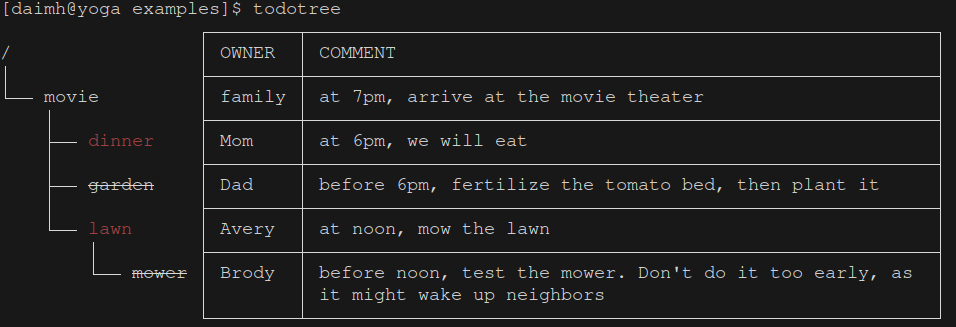
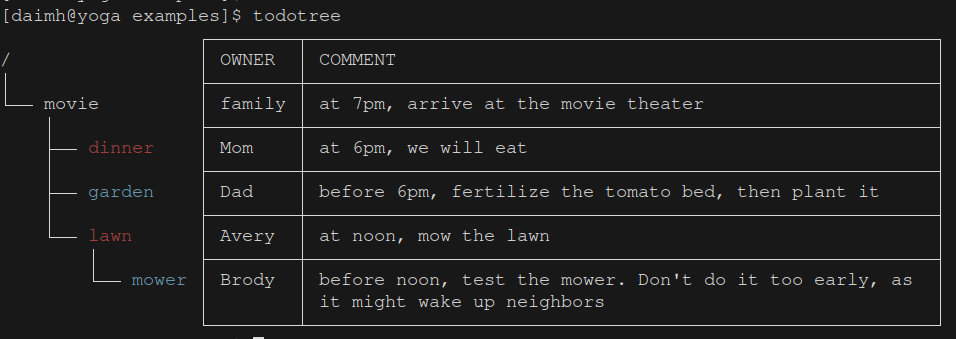
Ref: support "watch -c todotree"

diff --git a/examples/output/todotree.html b/examples/output/todotree.html
@@ -5,11 +5,11 @@
 <p style='font-family: monospace; font-size: 16px; margin: 0px; line-height: 16px'>&nbsp;&nbsp;&nbsp;&nbsp;│&nbsp;&nbsp;&nbsp;&nbsp;&nbsp;&nbsp;&nbsp;&nbsp;&nbsp;&nbsp;&nbsp;&nbsp;&nbsp;├────────┼───────────────────────────────────────────────────┤</p>
 <p style='font-family: monospace; font-size: 16px; margin: 0px; line-height: 16px'>&nbsp;&nbsp;&nbsp;&nbsp;├──&nbsp;<span style='color:red'>dinner</span>&nbsp;&nbsp;&nbsp;&nbsp;│&nbsp;Mom&nbsp;&nbsp;&nbsp;&nbsp;│&nbsp;at 6pm, we will eat&nbsp;&nbsp;&nbsp;&nbsp;&nbsp;&nbsp;&nbsp;&nbsp;&nbsp;&nbsp;&nbsp;&nbsp;&nbsp;&nbsp;&nbsp;&nbsp;&nbsp;&nbsp;&nbsp;&nbsp;&nbsp;&nbsp;&nbsp;&nbsp;&nbsp;&nbsp;&nbsp;&nbsp;&nbsp;&nbsp;&nbsp;│</p>
 <p style='font-family: monospace; font-size: 16px; margin: 0px; line-height: 16px'>&nbsp;&nbsp;&nbsp;&nbsp;│&nbsp;&nbsp;&nbsp;&nbsp;&nbsp;&nbsp;&nbsp;&nbsp;&nbsp;&nbsp;&nbsp;&nbsp;&nbsp;├────────┼───────────────────────────────────────────────────┤</p>
-<p style='font-family: monospace; font-size: 16px; margin: 0px; line-height: 16px'>&nbsp;&nbsp;&nbsp;&nbsp;├──&nbsp;<span style='text-decoration:line-through'>garden</span>&nbsp;&nbsp;&nbsp;&nbsp;│&nbsp;Dad&nbsp;&nbsp;&nbsp;&nbsp;│&nbsp;before 6pm, fertilize the tomato bed, then plant &nbsp;│</p>
+<p style='font-family: monospace; font-size: 16px; margin: 0px; line-height: 16px'>&nbsp;&nbsp;&nbsp;&nbsp;├──&nbsp;<span style='color:blue'>garden</span>&nbsp;&nbsp;&nbsp;&nbsp;│&nbsp;Dad&nbsp;&nbsp;&nbsp;&nbsp;│&nbsp;before 6pm, fertilize the tomato bed, then plant &nbsp;│</p>
 <p style='font-family: monospace; font-size: 16px; margin: 0px; line-height: 16px'>&nbsp;&nbsp;&nbsp;&nbsp;│&nbsp;&nbsp;&nbsp;&nbsp;&nbsp;&nbsp;&nbsp;&nbsp;&nbsp;&nbsp;&nbsp;&nbsp;&nbsp;│&nbsp;&nbsp;&nbsp;&nbsp;&nbsp;&nbsp;&nbsp;&nbsp;│&nbsp;it&nbsp;&nbsp;&nbsp;&nbsp;&nbsp;&nbsp;&nbsp;&nbsp;&nbsp;&nbsp;&nbsp;&nbsp;&nbsp;&nbsp;&nbsp;&nbsp;&nbsp;&nbsp;&nbsp;&nbsp;&nbsp;&nbsp;&nbsp;&nbsp;&nbsp;&nbsp;&nbsp;&nbsp;&nbsp;&nbsp;&nbsp;&nbsp;&nbsp;&nbsp;&nbsp;&nbsp;&nbsp;&nbsp;&nbsp;&nbsp;&nbsp;&nbsp;&nbsp;&nbsp;&nbsp;&nbsp;&nbsp;&nbsp;│</p>
 <p style='font-family: monospace; font-size: 16px; margin: 0px; line-height: 16px'>&nbsp;&nbsp;&nbsp;&nbsp;│&nbsp;&nbsp;&nbsp;&nbsp;&nbsp;&nbsp;&nbsp;&nbsp;&nbsp;&nbsp;&nbsp;&nbsp;&nbsp;├────────┼───────────────────────────────────────────────────┤</p>
 <p style='font-family: monospace; font-size: 16px; margin: 0px; line-height: 16px'>&nbsp;&nbsp;&nbsp;&nbsp;└──&nbsp;<span style='color:red'>lawn</span>&nbsp;&nbsp;&nbsp;&nbsp;&nbsp;&nbsp;│&nbsp;Avery&nbsp;&nbsp;│&nbsp;at noon, mow the lawn&nbsp;&nbsp;&nbsp;&nbsp;&nbsp;&nbsp;&nbsp;&nbsp;&nbsp;&nbsp;&nbsp;&nbsp;&nbsp;&nbsp;&nbsp;&nbsp;&nbsp;&nbsp;&nbsp;&nbsp;&nbsp;&nbsp;&nbsp;&nbsp;&nbsp;&nbsp;&nbsp;&nbsp;&nbsp;│</p>
 <p style='font-family: monospace; font-size: 16px; margin: 0px; line-height: 16px'>&nbsp;&nbsp;&nbsp;&nbsp;&nbsp;&nbsp;&nbsp;&nbsp;│&nbsp;&nbsp;&nbsp;&nbsp;&nbsp;&nbsp;&nbsp;&nbsp;&nbsp;├────────┼───────────────────────────────────────────────────┤</p>
-<p style='font-family: monospace; font-size: 16px; margin: 0px; line-height: 16px'>&nbsp;&nbsp;&nbsp;&nbsp;&nbsp;&nbsp;&nbsp;&nbsp;└──&nbsp;<span style='text-decoration:line-through'>mower</span>&nbsp;│&nbsp;Brody&nbsp;&nbsp;│&nbsp;before noon, test the mower. Don't do it too earl&nbsp;│</p>
+<p style='font-family: monospace; font-size: 16px; margin: 0px; line-height: 16px'>&nbsp;&nbsp;&nbsp;&nbsp;&nbsp;&nbsp;&nbsp;&nbsp;└──&nbsp;<span style='color:blue'>mower</span>&nbsp;│&nbsp;Brody&nbsp;&nbsp;│&nbsp;before noon, test the mower. Don't do it too earl&nbsp;│</p>
 <p style='font-family: monospace; font-size: 16px; margin: 0px; line-height: 16px'>&nbsp;&nbsp;&nbsp;&nbsp;&nbsp;&nbsp;&nbsp;&nbsp;&nbsp;&nbsp;&nbsp;&nbsp;&nbsp;&nbsp;&nbsp;&nbsp;&nbsp;&nbsp;│&nbsp;&nbsp;&nbsp;&nbsp;&nbsp;&nbsp;&nbsp;&nbsp;│&nbsp;y, as it might wake up neighbors&nbsp;&nbsp;&nbsp;&nbsp;&nbsp;&nbsp;&nbsp;&nbsp;&nbsp;&nbsp;&nbsp;&nbsp;&nbsp;&nbsp;&nbsp;&nbsp;&nbsp;&nbsp;│</p>
 <p style='font-family: monospace; font-size: 16px; margin: 0px; line-height: 16px'>&nbsp;&nbsp;&nbsp;&nbsp;&nbsp;&nbsp;&nbsp;&nbsp;&nbsp;&nbsp;&nbsp;&nbsp;&nbsp;&nbsp;&nbsp;&nbsp;&nbsp;&nbsp;└────────┴───────────────────────────────────────────────────┘</p>

diff --git a/examples/output/no-owner.html b/examples/output/no-owner.html
@@ -5,10 +5,10 @@
 <p style='font-family: monospace; font-size: 16px; margin: 0px; line-height: 16px'>&nbsp;&nbsp;&nbsp;&nbsp;│&nbsp;&nbsp;&nbsp;&nbsp;&nbsp;&nbsp;&nbsp;&nbsp;&nbsp;&nbsp;&nbsp;&nbsp;&nbsp;├─────────────────────────────────────────────────────────┤</p>
 <p style='font-family: monospace; font-size: 16px; margin: 0px; line-height: 16px'>&nbsp;&nbsp;&nbsp;&nbsp;├──&nbsp;<span style='color:red'>dinner</span>&nbsp;&nbsp;&nbsp;&nbsp;│&nbsp;at 6pm, we will eat&nbsp;&nbsp;&nbsp;&nbsp;&nbsp;&nbsp;&nbsp;&nbsp;&nbsp;&nbsp;&nbsp;&nbsp;&nbsp;&nbsp;&nbsp;&nbsp;&nbsp;&nbsp;&nbsp;&nbsp;&nbsp;&nbsp;&nbsp;&nbsp;&nbsp;&nbsp;&nbsp;&nbsp;&nbsp;&nbsp;&nbsp;&nbsp;&nbsp;&nbsp;&nbsp;&nbsp;&nbsp;│</p>
 <p style='font-family: monospace; font-size: 16px; margin: 0px; line-height: 16px'>&nbsp;&nbsp;&nbsp;&nbsp;│&nbsp;&nbsp;&nbsp;&nbsp;&nbsp;&nbsp;&nbsp;&nbsp;&nbsp;&nbsp;&nbsp;&nbsp;&nbsp;├─────────────────────────────────────────────────────────┤</p>
-<p style='font-family: monospace; font-size: 16px; margin: 0px; line-height: 16px'>&nbsp;&nbsp;&nbsp;&nbsp;├──&nbsp;<span style='text-decoration:line-through'>garden</span>&nbsp;&nbsp;&nbsp;&nbsp;│&nbsp;before 6pm, fertilize the tomato bed, then plant it&nbsp;&nbsp;&nbsp;&nbsp;&nbsp;│</p>
+<p style='font-family: monospace; font-size: 16px; margin: 0px; line-height: 16px'>&nbsp;&nbsp;&nbsp;&nbsp;├──&nbsp;<span style='color:blue'>garden</span>&nbsp;&nbsp;&nbsp;&nbsp;│&nbsp;before 6pm, fertilize the tomato bed, then plant it&nbsp;&nbsp;&nbsp;&nbsp;&nbsp;│</p>
 <p style='font-family: monospace; font-size: 16px; margin: 0px; line-height: 16px'>&nbsp;&nbsp;&nbsp;&nbsp;│&nbsp;&nbsp;&nbsp;&nbsp;&nbsp;&nbsp;&nbsp;&nbsp;&nbsp;&nbsp;&nbsp;&nbsp;&nbsp;├─────────────────────────────────────────────────────────┤</p>
 <p style='font-family: monospace; font-size: 16px; margin: 0px; line-height: 16px'>&nbsp;&nbsp;&nbsp;&nbsp;└──&nbsp;<span style='color:red'>lawn</span>&nbsp;&nbsp;&nbsp;&nbsp;&nbsp;&nbsp;│&nbsp;at noon, mow the lawn&nbsp;&nbsp;&nbsp;&nbsp;&nbsp;&nbsp;&nbsp;&nbsp;&nbsp;&nbsp;&nbsp;&nbsp;&nbsp;&nbsp;&nbsp;&nbsp;&nbsp;&nbsp;&nbsp;&nbsp;&nbsp;&nbsp;&nbsp;&nbsp;&nbsp;&nbsp;&nbsp;&nbsp;&nbsp;&nbsp;&nbsp;&nbsp;&nbsp;&nbsp;&nbsp;│</p>
 <p style='font-family: monospace; font-size: 16px; margin: 0px; line-height: 16px'>&nbsp;&nbsp;&nbsp;&nbsp;&nbsp;&nbsp;&nbsp;&nbsp;│&nbsp;&nbsp;&nbsp;&nbsp;&nbsp;&nbsp;&nbsp;&nbsp;&nbsp;├─────────────────────────────────────────────────────────┤</p>
-<p style='font-family: monospace; font-size: 16px; margin: 0px; line-height: 16px'>&nbsp;&nbsp;&nbsp;&nbsp;&nbsp;&nbsp;&nbsp;&nbsp;└──&nbsp;<span style='text-decoration:line-through'>mower</span>&nbsp;│&nbsp;before noon, test the mower. Don't do it too early, as &nbsp;│</p>
+<p style='font-family: monospace; font-size: 16px; margin: 0px; line-height: 16px'>&nbsp;&nbsp;&nbsp;&nbsp;&nbsp;&nbsp;&nbsp;&nbsp;└──&nbsp;<span style='color:blue'>mower</span>&nbsp;│&nbsp;before noon, test the mower. Don't do it too early, as &nbsp;│</p>
 <p style='font-family: monospace; font-size: 16px; margin: 0px; line-height: 16px'>&nbsp;&nbsp;&nbsp;&nbsp;&nbsp;&nbsp;&nbsp;&nbsp;&nbsp;&nbsp;&nbsp;&nbsp;&nbsp;&nbsp;&nbsp;&nbsp;&nbsp;&nbsp;│&nbsp;it might wake up neighbors&nbsp;&nbsp;&nbsp;&nbsp;&nbsp;&nbsp;&nbsp;&nbsp;&nbsp;&nbsp;&nbsp;&nbsp;&nbsp;&nbsp;&nbsp;&nbsp;&nbsp;&nbsp;&nbsp;&nbsp;&nbsp;&nbsp;&nbsp;&nbsp;&nbsp;&nbsp;&nbsp;&nbsp;&nbsp;&nbsp;│</p>
 <p style='font-family: monospace; font-size: 16px; margin: 0px; line-height: 16px'>&nbsp;&nbsp;&nbsp;&nbsp;&nbsp;&nbsp;&nbsp;&nbsp;&nbsp;&nbsp;&nbsp;&nbsp;&nbsp;&nbsp;&nbsp;&nbsp;&nbsp;&nbsp;└─────────────────────────────────────────────────────────┘</p>

diff --git a/examples/output/no-comment.html b/examples/output/no-comment.html
@@ -5,9 +5,9 @@
 <p style='font-family: monospace; font-size: 16px; margin: 0px; line-height: 16px'>&nbsp;&nbsp;&nbsp;&nbsp;│&nbsp;&nbsp;&nbsp;&nbsp;&nbsp;&nbsp;&nbsp;&nbsp;&nbsp;&nbsp;&nbsp;&nbsp;&nbsp;├────────┤</p>
 <p style='font-family: monospace; font-size: 16px; margin: 0px; line-height: 16px'>&nbsp;&nbsp;&nbsp;&nbsp;├──&nbsp;<span style='color:red'>dinner</span>&nbsp;&nbsp;&nbsp;&nbsp;│&nbsp;Mom&nbsp;&nbsp;&nbsp;&nbsp;│</p>
 <p style='font-family: monospace; font-size: 16px; margin: 0px; line-height: 16px'>&nbsp;&nbsp;&nbsp;&nbsp;│&nbsp;&nbsp;&nbsp;&nbsp;&nbsp;&nbsp;&nbsp;&nbsp;&nbsp;&nbsp;&nbsp;&nbsp;&nbsp;├────────┤</p>
-<p style='font-family: monospace; font-size: 16px; margin: 0px; line-height: 16px'>&nbsp;&nbsp;&nbsp;&nbsp;├──&nbsp;<span style='text-decoration:line-through'>garden</span>&nbsp;&nbsp;&nbsp;&nbsp;│&nbsp;Dad&nbsp;&nbsp;&nbsp;&nbsp;│</p>
+<p style='font-family: monospace; font-size: 16px; margin: 0px; line-height: 16px'>&nbsp;&nbsp;&nbsp;&nbsp;├──&nbsp;<span style='color:blue'>garden</span>&nbsp;&nbsp;&nbsp;&nbsp;│&nbsp;Dad&nbsp;&nbsp;&nbsp;&nbsp;│</p>
 <p style='font-family: monospace; font-size: 16px; margin: 0px; line-height: 16px'>&nbsp;&nbsp;&nbsp;&nbsp;│&nbsp;&nbsp;&nbsp;&nbsp;&nbsp;&nbsp;&nbsp;&nbsp;&nbsp;&nbsp;&nbsp;&nbsp;&nbsp;├────────┤</p>
 <p style='font-family: monospace; font-size: 16px; margin: 0px; line-height: 16px'>&nbsp;&nbsp;&nbsp;&nbsp;└──&nbsp;<span style='color:red'>lawn</span>&nbsp;&nbsp;&nbsp;&nbsp;&nbsp;&nbsp;│&nbsp;Avery&nbsp;&nbsp;│</p>
 <p style='font-family: monospace; font-size: 16px; margin: 0px; line-height: 16px'>&nbsp;&nbsp;&nbsp;&nbsp;&nbsp;&nbsp;&nbsp;&nbsp;│&nbsp;&nbsp;&nbsp;&nbsp;&nbsp;&nbsp;&nbsp;&nbsp;&nbsp;├────────┤</p>
-<p style='font-family: monospace; font-size: 16px; margin: 0px; line-height: 16px'>&nbsp;&nbsp;&nbsp;&nbsp;&nbsp;&nbsp;&nbsp;&nbsp;└──&nbsp;<span style='text-decoration:line-through'>mower</span>&nbsp;│&nbsp;Brody&nbsp;&nbsp;│</p>
+<p style='font-family: monospace; font-size: 16px; margin: 0px; line-height: 16px'>&nbsp;&nbsp;&nbsp;&nbsp;&nbsp;&nbsp;&nbsp;&nbsp;└──&nbsp;<span style='color:blue'>mower</span>&nbsp;│&nbsp;Brody&nbsp;&nbsp;│</p>
 <p style='font-family: monospace; font-size: 16px; margin: 0px; line-height: 16px'>&nbsp;&nbsp;&nbsp;&nbsp;&nbsp;&nbsp;&nbsp;&nbsp;&nbsp;&nbsp;&nbsp;&nbsp;&nbsp;&nbsp;&nbsp;&nbsp;&nbsp;&nbsp;└────────┘</p>

diff --git a/examples/output/name-only.html b/examples/output/name-only.html
@@ -1,6 +1,6 @@
 <p style='font-family: monospace; font-size: 16px; margin: 0px; line-height: 16px'>/&nbsp;&nbsp;&nbsp;&nbsp;&nbsp;&nbsp;&nbsp;&nbsp;&nbsp;&nbsp;&nbsp;&nbsp;&nbsp;&nbsp;&nbsp;&nbsp;
 <p style='font-family: monospace; font-size: 16px; margin: 0px; line-height: 16px'>└──&nbsp;movie&nbsp;&nbsp;&nbsp;&nbsp;&nbsp;&nbsp;&nbsp;&nbsp;
 <p style='font-family: monospace; font-size: 16px; margin: 0px; line-height: 16px'>&nbsp;&nbsp;&nbsp;&nbsp;├──&nbsp;<span style='color:red'>dinner</span>&nbsp;&nbsp;&nbsp;
-<p style='font-family: monospace; font-size: 16px; margin: 0px; line-height: 16px'>&nbsp;&nbsp;&nbsp;&nbsp;├──&nbsp;<span style='text-decoration:line-through'>garden</span>&nbsp;&nbsp;&nbsp;
+<p style='font-family: monospace; font-size: 16px; margin: 0px; line-height: 16px'>&nbsp;&nbsp;&nbsp;&nbsp;├──&nbsp;<span style='color:blue'>garden</span>&nbsp;&nbsp;&nbsp;
 <p style='font-family: monospace; font-size: 16px; margin: 0px; line-height: 16px'>&nbsp;&nbsp;&nbsp;&nbsp;└──&nbsp;<span style='color:red'>lawn</span>&nbsp;&nbsp;&nbsp;&nbsp;&nbsp;
-<p style='font-family: monospace; font-size: 16px; margin: 0px; line-height: 16px'>&nbsp;&nbsp;&nbsp;&nbsp;&nbsp;&nbsp;&nbsp;&nbsp;└──&nbsp;<span style='text-decoration:line-through'>mower</span>
+<p style='font-family: monospace; font-size: 16px; margin: 0px; line-height: 16px'>&nbsp;&nbsp;&nbsp;&nbsp;&nbsp;&nbsp;&nbsp;&nbsp;└──&nbsp;<span style='color:blue'>mower</span>

diff --git a/src/todotree/todo.rs b/src/todotree/todo.rs
@@ -1,19 +1,13 @@
-use crate::todotree::HTMLP;
-use crate::todotree::ROOT;
-use crate::todotree::tree::Format;
 use std::cell::RefCell;
 use std::cmp::{max, min};
 use std::collections::HashMap;
 use std::collections::HashSet;
 use std::fmt;
 use std::rc::Rc;
-
-#[derive(PartialEq, Debug)]
-pub enum Status {
-    Completed,
-    Waiting,
-    Doing,
-}
+use super::Format;
+use super::HTMLP;
+use super::ROOT;
+use super::Status;
 
 pub struct Todo {
     pub name: String,
@@ -33,7 +27,7 @@ impl Todo {
     ) -> Self {
         let status = match name.starts_with("~") {
             true => Status::Completed,
-            false => Status::Waiting,
+            false => Status::Pending,
         };
         let realname = match status {
             Status::Completed => String::from(name.replace("~", "").trim()),
@@ -107,7 +101,7 @@ impl Todo {
         }
         if notdonedeps.len() == 0 {
             if self.status != Status::Completed {
-                self.status = Status::Doing;
+                self.status = Status::Actionable;
             }
         } else if self.status == Status::Completed {
             panic!(
@@ -153,9 +147,9 @@ impl Todo {
                 writeln!(fo, "{}  \"name\": \"{}\",", space, self.name)?;
                 write!(fo, "{}  \"status\": ", space)?;
                 match self.status {
-                    Status::Completed => writeln!(fo, "\"strikethrough\",")?,
-                    Status::Waiting => writeln!(fo, "null,",)?,
-                    Status::Doing => writeln!(fo, "\"red\",",)?,
+                    Status::Completed => writeln!(fo, "\"blue\",")?,
+                    Status::Pending => writeln!(fo, "null,",)?,
+                    Status::Actionable => writeln!(fo, "\"red\",",)?,
                 }
                 if maxlens[1] > 0 {
                     writeln!(fo, "{}  \"owner\": \"{}\",", space, self.owner)?;
@@ -187,19 +181,19 @@ impl Todo {
                     }
                 }
                 match self.status {
-                    // strikethrough
+                    // blue
                     Status::Completed => write!(
                         fo,
                         "{}",
                         match format {
-                            Format::Term => "\x1b\x5b\x39\x6d",
+                            Format::Term => "\x1b\x5b\x33\x34\x6d",
                             Format::Html =>
-                                "<span style='text-decoration:line-through'>",
+                                "<span style='color:blue'>",
                             Format::Json => panic!("ERR-010"),
                         }
                     )?,
                     // red
-                    Status::Doing => write!(
+                    Status::Actionable => write!(
                         fo,
                         "{}",
                         match format {
@@ -209,10 +203,10 @@ impl Todo {
                         }
                     )?,
                     // red
-                    Status::Waiting => (),
+                    Status::Pending => (),
                 }
                 write!(fo, "{}", self.name)?;
-                if self.status != Status::Waiting {
+                if self.status != Status::Pending {
                     write!(
                         fo,
                         "{}",

diff --git a/src/todotree/tree.rs b/src/todotree/tree.rs
@@ -1,20 +1,14 @@
-use crate::todotree::HTMLP;
-use crate::todotree::ROOT;
-use crate::todotree::todo::Status;
-use crate::todotree::todo::Todo;
 use std::cell::RefCell;
 use std::collections::HashMap;
 use std::collections::HashSet;
 use std::fmt;
 use std::fs::read_to_string;
 use std::rc::Rc;
-
-#[derive(PartialEq)]
-pub enum Format {
-    Html,
-    Json,
-    Term,
-}
+use super::Format;
+use super::HTMLP;
+use super::ROOT;
+use super::Status;
+use super::todo::Todo;
 
 pub struct Tree {
     root: Rc<RefCell<Todo>>,

diff --git a/src/todotree.rs b/src/todotree.rs
@@ -3,3 +3,17 @@ pub mod tree;
 static ROOT: &str = "/";
 static HTMLP: &str = "<p style='font-family: monospace; font-size: 16px; \
 	margin: 0px; line-height: 16px'>";
+
+#[derive(PartialEq)]
+pub enum Format {
+    Html,
+    Json,
+    Term,
+}
+
+#[derive(PartialEq, Debug)]
+pub enum Status {
+    Completed,
+    Pending,
+    Actionable,
+}

diff --git a/README.md b/README.md
@@ -1,6 +1,6 @@
 # Todo Tree
 
-Display todos with a dependency tree. Highlight ongoing ones with red, or finished ones with strikethrough. Support terminal, html and json output format
+Display todos with a dependency tree. Highlight actionable ones with red, or finished ones with blue. Support terminal, html and json output format
 
 ## Example 
 #### Input 
@@ -43,13 +43,11 @@ todotree lawn garden
 todotree -o term -i name-only.md > name-only.term && cat name-only.term
 ```
 
-- save the output to other format
+- advanced usage
 ```
+watch -c todotree
 todotree -o html -i no-comment.md > no-comment.html
 todotree -o json -i no-owner.md > no-owner.json
-```
-- get help
-```
 todotree -h
 ```
 
@@ -59,7 +57,7 @@ RUSTFLAGS="-C target-feature=+crt-static" cargo build --release
 ```
 
 Each todo in the input markdown file is defined by four special lines
-1. "# " followed by the todo's name. Only alphabets, digits, and some special characters are allowed. Completed todos will appear with a strikethrough style in both the output HTML file and the terminal. To mark a todo as completed, either prefix it with '~' or enclose the name in '\~\~', which will also apply the strikethrough style to the input markdown file.
+1. "# " followed by the todo's name. Only alphabets, digits, and some special characters are allowed. Completed todos will have a blue color in both the output HTML file and the terminal. To mark a todo as completed, either prefix it with '~' or enclose the name in '\~\~', which will also apply the strikethrough style to the input markdown file.
 1. "- @ ", followed by the todo's owner, optional
 1. "- : ", followed by the todo's dependency list, which can be split to multiple lines for easier editing, optional
 1. "- % ", followed by the todo's comment, optional
